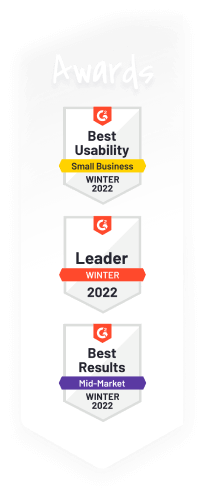
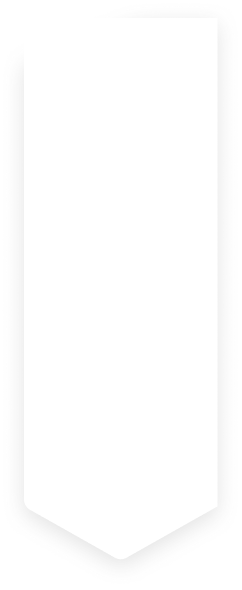
feat: awards dynamically added from awards post type

Changed region(s): [[0.2956, 0.2126, 0.7389, 0.8502]]

diff --git a/assets/styles/shortcodes/BlockBadges.scss b/assets/styles/shortcodes/BlockBadges.scss
@@ -3,6 +3,58 @@
 @use "../common/variables" as *;
 @use "../common/mixins" as *;
 
+.award-badges {
+	display: flex;
+	align-items: center;
+
+	> div {
+
+		@include square(5em);
+		background-repeat: no-repeat;
+		background-position: center center;
+		background-size: cover;
+	}
+
+	@media (max-width: ($breakpoint-tablet - 1px)) {
+		flex-wrap: wrap;
+		justify-content: center;
+	}
+
+	@media (min-width: $breakpoint-tablet-landscape) {
+
+		@include posCustom($left: 50%);
+		position: absolute;
+		width: 100%;
+		height: 100%;
+		z-index: 5;
+
+
+		> div {
+
+			@include square(16em);
+			position: absolute;
+
+			flex-shrink: 0;
+			z-index: 6;
+		}
+
+		@for $i from 2 through 6 {
+			$size: 15 - $i * 1.5;
+			$moveX: $i * 5;
+			$moveY: -$size * 3;
+
+			>div:nth-of-type(#{$i}) {
+
+				@include square(#{$size}em);
+				top: 12em;
+				transform: translate(#{$moveX}em, #{-$i * 1.5}em);
+				z-index: 6 - $i;
+			}
+		}
+	}
+
+}
+
 .block-badges {
 
 	&__bg {
@@ -69,18 +121,6 @@
 			max-width: 45%;
 		}
 
-		&__image {
-
-			@include posCustom($left: 50%);
-			content: "";
-			position: absolute;
-			z-index: 5;
-			display: flex;
-			justify-content: flex-end;
-			align-items: center;
-			pointer-events: none;
-		}
-
 		.Post__content & {
 
 			.block-badges {
@@ -113,7 +153,7 @@
 					width: 100%;
 				}
 
-				&__image {
+				.award-badges {
 					position: static;
 				}
 			}
@@ -138,6 +178,20 @@
 			flex-direction: column;
 			align-items: center;
 			text-align: center;
+		}
+	}
+}
+
+.BlockBadges {
+
+	@media (min-width: $breakpoint-tablet-landscape) {
+
+		.award-badges {
+			left: 25%;
+
+			>div:not(:first-of-type) {
+				top: 4em;
+			}
 		}
 	}
 }

diff --git a/assets/styles/components/_HeroBanner.scss b/assets/styles/components/_HeroBanner.scss
@@ -157,12 +157,31 @@
 			.heroBanner__awards {
 				display: block;
 
-				.heroBanner__awards__img {
+				&__wrapper {
+
 					position: absolute;
 					bottom: 0;
 					right: 0;
-					width: 6.25em;
-					height: auto;
+					width: 5em;
+				}
+
+				&__bg {
+
+					@include posCustom(-1em);
+					position: absolute;
+				}
+
+				&__title {
+					width: 60%;
+					display: block;
+					margin: 0 auto;
+				}
+
+				.heroBanner__awards__img {
+					width: 80%;
+					margin: 0 auto;
+					padding-bottom: 80%;
+					background-size: cover !important;
 				}
 			}
 

diff --git a/assets/styles/components/_HeroHeadlineHome.scss b/assets/styles/components/_HeroHeadlineHome.scss
@@ -429,19 +429,6 @@ value-keyword-case */
 			background-size: cover;
 		}
 
-		&::after {
-			position: absolute;
-			content: "";
-			background: url(../images/heroHeadline_badges.svg) center top no-repeat;
-			background-size: contain;
-			z-index: 1;
-			width: 20%;
-			height: 0;
-			padding-bottom: 49%;
-			top: 0;
-			right: -2%;
-		}
-
 		&.align-center .elementor-widget-wrap {
 			align-items: center;
 			align-content: center;

diff --git a/functions/dynamic-award-badges.php b/functions/dynamic-award-badges.php
@@ -1,0 +1,61 @@
+<?php
+
+function get_awards( $number ) {
+	$awards_posts = get_posts(
+		array(
+			'post_type'      => 'ms_awards',
+			'posts_per_page' => $number,
+			'fields'         => 'ids',
+			'orderby'        => 'date',
+			'order'          => 'DESC',
+		)
+	);
+
+	return $awards_posts;
+}
+
+function badges_elementor_block( $content ) {
+	if ( ! $content ) {
+		return $content;
+	}
+
+	$dom = new DOMDocument();
+	libxml_use_internal_errors( true );
+	$dom->loadHTML( mb_convert_encoding( $content, 'HTML-ENTITIES', 'UTF-8' ) );
+	libxml_clear_errors();
+	$xpath    = new DOMXPath( $dom );
+	$elements = get_nodes( $xpath, 'BlockBadges' );
+	$elements = $xpath->query( "//*[contains(concat(' ', normalize-space(@class), ' '), ' BlockBadges ')]" );
+
+	if ( $elements->item( 0 ) ) {
+		set_custom_source( 'shortcodes/BlockBadges' );
+	}
+
+	foreach ( $elements as $element ) {
+	
+		$new_dom = new DomDocument();
+		libxml_use_internal_errors( true );
+		$new_dom->appendChild( $new_dom->importNode( $element, true ) );
+		libxml_clear_errors();
+		$new_xpath    = new DOMXPath( $new_dom );
+		$badge_images = $element->getElementsByTagName( 'img' );
+
+		foreach ( $badge_images as $badge ) {
+			$wrapper = $dom->createElement( 'div' );
+			$wrapper->setAttribute( 'class', 'award-badges' );
+			foreach ( get_awards( 6 ) as $award_id ) {
+				$award_img = $dom->createElement( 'div' );
+				$award_img->setAttribute( 'style', 'background-image: url(' . get_the_post_thumbnail_url( $award_id, 'box_archive_thumbnail' ) . ');' );
+				$wrapper->appendChild( $award_img );
+			}
+			$badge->parentNode->replaceChild( $wrapper, $badge ); //@codingStandardsIgnoreLine
+		}
+	}
+
+	$dom->removeChild( $dom->doctype );
+	$content = $dom->saveHtml();
+	$content = str_replace( '<html><body>', '', $content );
+	$content = str_replace( '</body></html>', '', $content );
+	return $content;
+}
+add_filter( 'the_content', 'badges_elementor_block', 10000 );

diff --git a/lib/shortcodes/hero-banner-awards.php b/lib/shortcodes/hero-banner-awards.php
@@ -3,8 +3,20 @@
 function ms_hero_banner_awards() {
 	ob_start();
 	?>
-	<img class="heroBanner__awards__img" src="<?= esc_url( get_template_directory_uri() . '/assets/images/hero-banner-awards.png' ) ?>" alt="<?php _e( 'Awards', 'ms' ); ?>">
+	<div class="heroBanner__awards__wrapper">
+		<div class="heroBanner__awards__bg" style="background: url(<?= esc_url( get_template_directory_uri() . '/assets/images/hero-banner-awards.png?ver=' . THEME_VERSION ) ?>) center top no-repeat; background-size: contain"></div>
+	
+		<img class="heroBanner__awards__title" src="<?= esc_url( get_template_directory_uri() . '/assets/images/hero-banner-awards__title.png?ver=' . THEME_VERSION ); ?>" alt="Awards" />
+	<?php
+	foreach ( get_awards( 3 ) as $award_id ) {
+		?>
 
+	<div class="heroBanner__awards__img" style="background: url(<?= esc_attr( get_the_post_thumbnail_url( $award_id, 'box_archive_thumbnail' ) ) ?>) center center no-repeat"></div>
+
+		<?php
+	}
+	?>
+	</div>
 	<?php
 	return ob_get_clean();
 }

diff --git a/lib/shortcodes/awards-badges.php b/lib/shortcodes/awards-badges.php
@@ -21,8 +21,14 @@ function ms_awards_badges() {
 						<a href="<?= esc_url( __( '/awards/', 'ms' ) ); ?>" class="Button Button--full"><span><?php _e( 'View more' ); ?></span></a>
 					</p>
 				</div>
-				<div class="block-badges__image">
-					<img src="<?= esc_url( get_template_directory_uri() ); ?>/assets/images/badges.png" alt="<?php _e( 'Badges', 'ms' ); ?>">
+				<div class="award-badges">
+					<?php
+					foreach ( get_awards( 6 ) as $award_id ) {
+						?>
+						<div style="background-image: url(<?= esc_attr( get_the_post_thumbnail_url( $award_id, 'box_archive_thumbnail' ) ); ?>)" alt="<?php _e( 'Badges', 'ms' ); ?>"></div>
+						<?php
+					}
+					?>
 				</div>
 			</div>
 		</div>

diff --git a/functions.php b/functions.php
@@ -44,6 +44,7 @@ $theme_includes = array(
 	'functions/get-cta-button-data.php', // Get data from metaboxes for cta button in the compact header
 	'functions/header-banners.php', // Shows banners on selected pages
 	'functions/create-language-menu.php', // Function for generate languages
+	'functions/dynamic-award-badges.php', // Function to place award badges dynamically
 );
 
 foreach ( $theme_includes as $file ) {
